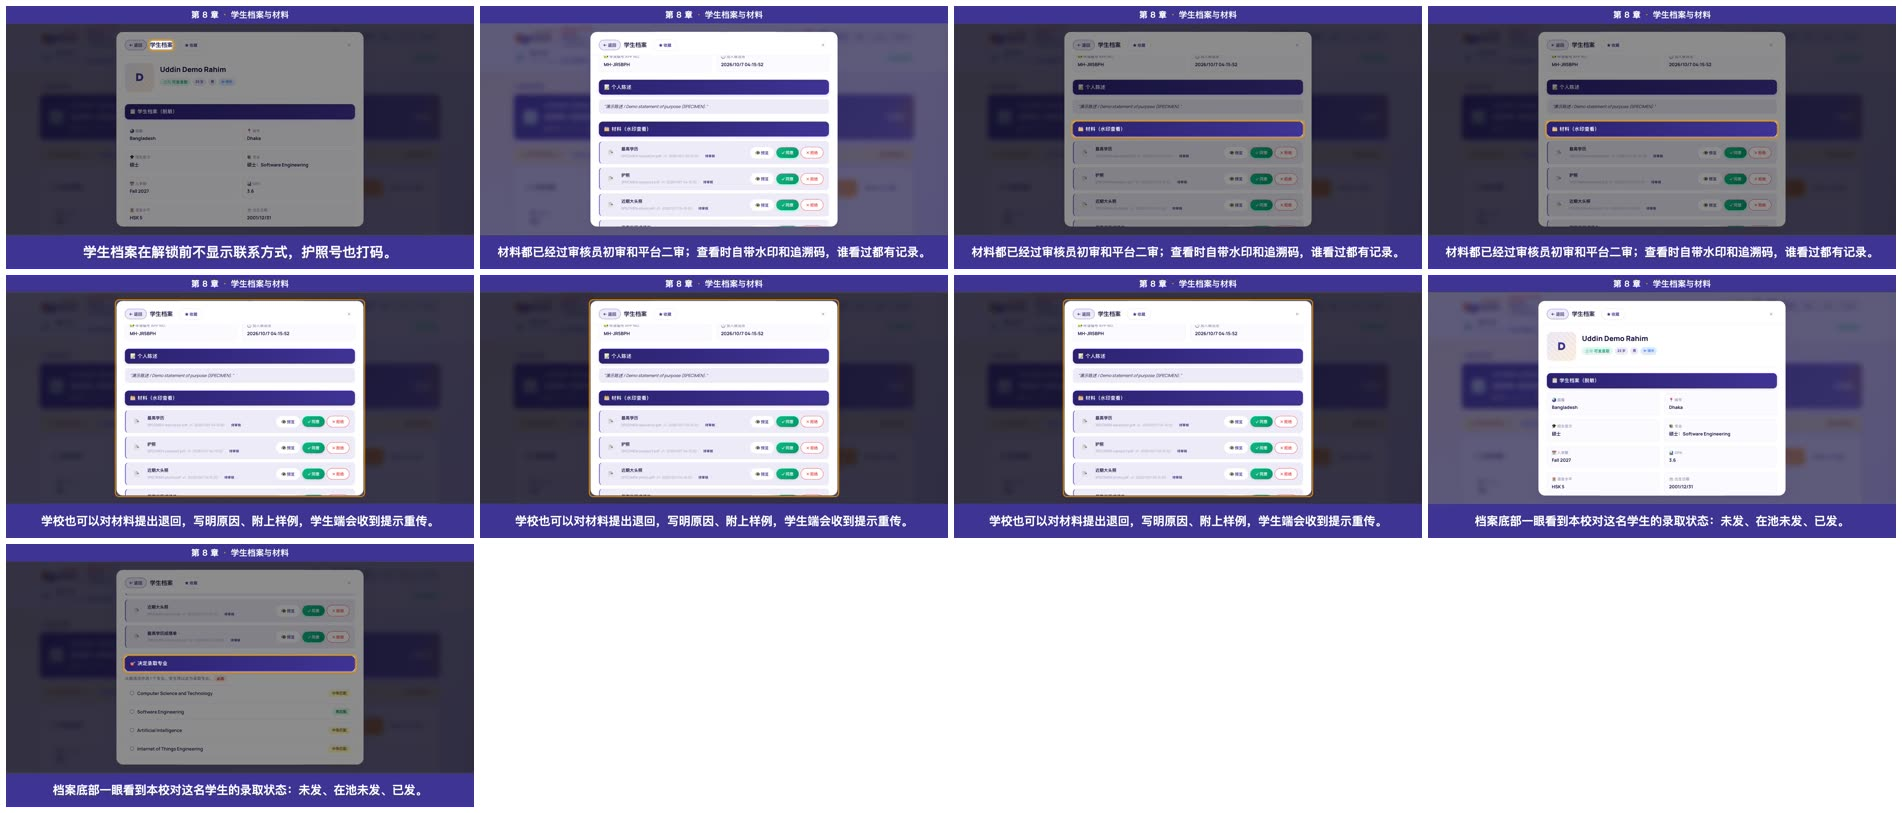
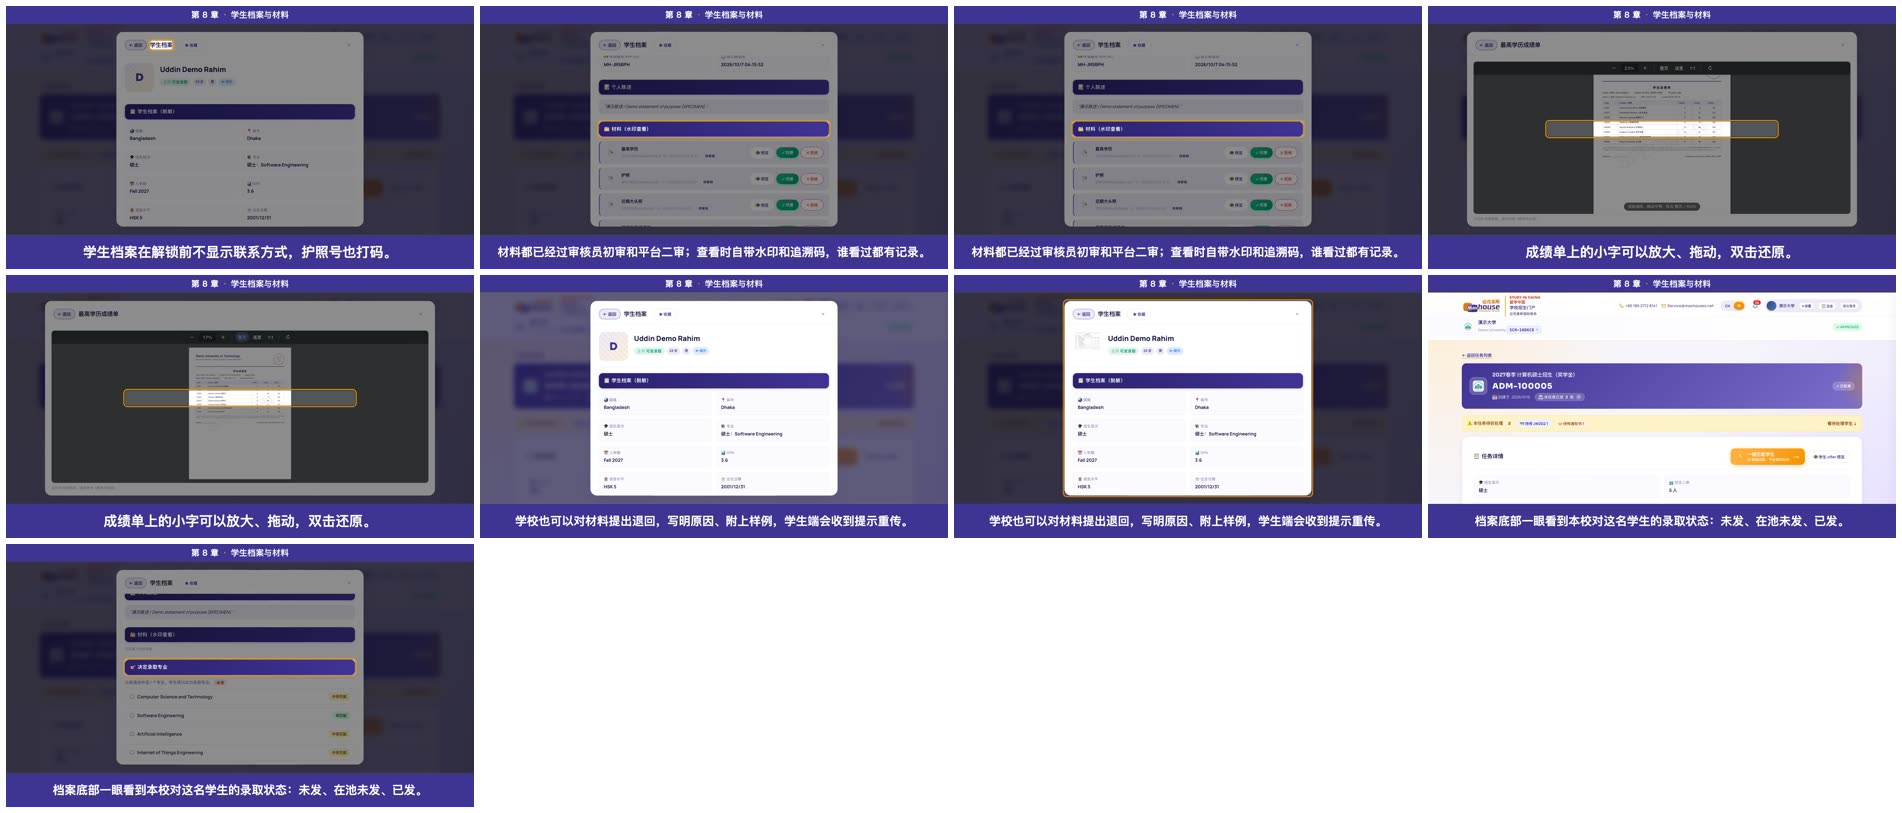
JOB-GS3 receipts and contact sheets (owner push)

diff --git a/JOB-GS3-01.md b/JOB-GS3-01.md
@@ -1,0 +1,80 @@
+# JOB-GS3-01 正式回执 · 学校端中文教学片（14 章 + 开场 + 片尾 + 速览）
+
+日期 2026-10-07 ｜ 无人值守会话（rGS3-loop 启动）｜ 这是最终回执，中文全片已录完，停 WAIT_REVIEW 等您审。
+
+## 一句话
+**按您在 REVIEW-zh.md 里的三条裁决 + F1～F5 修正，把学校端中文教学片全部录完了：14 章 + 开场 + 片尾 + 速览，整片 12 分 50 秒、速览 2 分 32 秒，每章三道自检全过、18 张联络表已推给您看；录制需要的真写都只在演示校 / 演示生身上做，录完每章随手复位、全片录完 rebuild 回了基线；没碰五端代码、没动 Cloudflare、没传 R2；主仓库源码已做好一次提交，但「要不要现在推」您的续跑卡里前后说法不一（一处说现在推、一处说留到 GS3-03 再推），加上总规约「CC 绝不自己 push」，我没敢擅自推，留给您定。**
+
+## 先看这些（都在 ~/mh-jobs/shots/GS3/zh/，共 18 张联络表）
+- 开场 `c00-open.jpg`、第 1～14 章 `c01.jpg`～`c14.jpg`、片尾 `c99-end.jpg`、速览 `quick.jpg`
+- 成片在本机 `/Volumes/Dev/MAXHOUSE/guide/dist/school/zh/`：`full.mp4`（整片）、`quick.mp4`（速览）、`c00-intro.mp4`、`c01`～`c14.mp4`、`c99-ending.mp4`
+
+## 每章 时长 / 镜数（都三道自检过：格式/字幕/高亮/禁词/音画对齐）
+| 段 | 时长 | 镜数 | 要点 |
+|---|---|---|---|
+| 开场 | 40.7s | 4（0-1~0-4）| 品牌卡 + 四张「过去/现在」对比卡 + 14 章目录 |
+| 第1章 登录与首次进入 | 63.4s | 5 | 登录门 → 登录 → 完善资料真提交 → APPROVED 徽章 → 顶栏 |
+| 第2章 看懂工作台 | 43.5s | 5 | **F1：六统计卡逐个高亮** |
+| 第3章 创建招生任务 | 95.0s | 8 | 填表 + 奖学金包(学费减免3万/住宿4千/生活补贴2500) + sch2 超额弹窗取消 + 编辑 |
+| 第4章 配额与提额 | 43.3s | 5 | **F2：4-5 规则卡改全屏紫卡** |
+| 第5章 一键匹配 | 36.7s | 3 | 重点一 |
+| 第6章 浏览与筛选 | 52.1s | 7 | 重点一 |
+| 第7章 候选池与状态 | 42.0s | 4 | 五档状态 |
+| 第8章 档案与材料 | 42.2s | 5 | **F3：8-3 放大查看器（真·查看器 + 本地成绩单样件，真·滚轮放大/拖动/双击还原）** |
+| 第9章 面试 | 29.0s | 3 | **裁决2：真排面试 → 代执行学生确认 → 9-2 通知「学生已确认参加面试」→ 记录通过** |
+| 第10章 发 Offer | 57.5s | 5 | 重点二；**F4：10-3 真发送**；10-5 规则卡全屏；设置页设回 gz17 |
+| 第11章 上传录取通知书 | 55.2s | 5 | 重点三；**真传通知书 SPECIMEN PDF + 有效期14天**；**11-4 改录学校端 offer 卡截止日（新口播）** |
+| 第12章 付款解锁后 | 40.4s | 5 | 全程 S7：待办JW202 → 联系方式解锁 → **真传JW202** → **确认入学** → 导出已录取名单 |
+| 第13章 办理方式与建档 | 66.1s | 4 | 重点四；**F5：13-3 三态(待补充/已导出/已提交) + 13-4 申请号 DEMO-2027-0001** |
+| 第14章 通知/记录/FAQ | 41.7s | 3 | **F2：14-3 规则卡改全屏紫卡** |
+| 片尾 | 20.9s | 2 | **F2：E-1 四✓回顾全屏卡** + E-2 二维码(指向 guide/school) |
+| **整片 full** | **769.9s（12分50秒）** | — | 开场+14章+片尾（闸要求 9~14 分 ✅） |
+| **速览 quick** | **151.9s（2分32秒）** | — | §F：开场+四重点(5-1/3-5/11-5/13-3)+流程快切8镜+片尾（闸要求 2~3 分 ✅）|
+
+## 真写清单（只碰演示校 schX/guide_sch2/guide_sch3 与演示生 S1~S8；全部已复位）
+| 章 | 在谁身上 | 真写了什么（走真 RPC/真表/真桶）| 怎么复位 |
+|---|---|---|---|
+| 9 | S8 Demo Aigerim | 清面试→真排面试→代执行学生确认(设已确认+推通知)→记录通过 | rebuild 重建该生 |
+| 10 | S8 | 真发 offer（写 offer_decisions）；设置页建档设回 gz17 | 录后 st-ch10-ready 复位 + rebuild |
+| 11 | S4 Demo Sara | 真传录取通知书到 offer-letters 桶 + 写有效期14天 | 录后 st-ch11-accepted 复位 + rebuild |
+| 12 | S7 Demo Ivan | 设演示联系方式；真传 JW202 到 offer-letters 桶；确认入学 | 录后 st-ch12-paid 复位 + 清联系方式 + rebuild |
+| 1 | guide_sch3 | 完善资料真提交（传办学资质到 school-onboarding-docs 桶 + 入驻RPC）+ 平台审核通过 | rebuild → st-sch3-fresh |
+| 3 | guide_sch3 | 真建一个招生任务（create_admission_task）| 录后 SQL 删除 + rebuild；sch2 超额弹窗只取消、没真建 |
+| （基线改动）| S5 Demo Dewi | 建档状态改「已提交」+申请号 DEMO-2027-0001（裁决2，写进 st-base-sch）| rebuild 回 GS2 基线后该生恢复原态 |
+
+**复位结果**：`rebuild-school.sh` 已跑完，8 名演示生删除后按基线重建、guide_sch3 回到 fresh（未完善资料），自检 BASE_OK / st-sch3-fresh OK。DB 已回基线、干净。
+
+**一个小尾巴（不影响画面、留您知会）**：上面往存储桶真传的几份 **SPECIMEN 样件**（录取通知书 / JW202 / 办学资质），数据库行已被 rebuild 清掉，但**桶里的文件本身**不会被数据库复位脚本删除——都是演示样本、带 SPECIMEN 水印、无任何真实个人信息，upsert 覆盖所以每份只占一个位。要彻底清可走存储接口删，不急。
+
+## F1~F5 执行情况
+- **F1**（2-1 六统计卡逐个高亮）✅ 已重录第2章，按口播顺序每卡约1秒。
+- **F2**（4-5/10-5/14-3 规则卡 + 片尾 E-1 改全屏紫卡）✅ 新增全屏卡渲染器，重合成第4/10/14章与片尾；大字规则要点 + 小字说明，不再叠在上一镜画面上。
+- **F3**（8-3 放大查看器）✅ 给 S2 补了一张本地 SPECIMEN 成绩单 jpg；水印件走生产 EF（按红线不碰生产），只 stub 了 watermark-doc 这一条 fetch 注入本地样件，其余请求照常；打开的是**真·MHViewer2 查看器**，真实滚轮放大 / 拖动 / 双击还原。
+- **F4**（10-3 真发送）✅ 见上「真写清单」第10章。
+- **F5**（13-3/13-4 建档三态 + 申请号）✅ 见上第13章。
+
+## 三条裁决落地
+- **裁决1**（允许演示生真写）：按授权清单逐项真做，每章录完复位、全片 rebuild，见「真写清单」。
+- **裁决2**（两处补数据不改口播）：第9章真做面试确认流程；第13章 S5 建档「已提交 DEMO-2027-0001」写进 st-base-sch，复位后仍成立（rebuild 回更底层的 GS2 基线则随该生重置）。
+- **裁决3**（跨状态/跨账号拼法）：第1/3/10/11/12 章按您给的拼法录；11-4 改录学校端 offer 卡截止日、口播与英文按您的新句改了（已同步进 shots-zh.json）。
+
+## 几处「我做了小变通」想报备（都为更稳 / 更忠实，不改口播与画面意图）
+1. **12-5 导出已录取**：就接在第12章同一条里录（S7 刚确认入学后导出），没有再单独切回 st-base 跑一趟——画面完全是「已录取名单 + 导出按钮」，还能看到刚入学的那位，更连贯。
+2. **3-6 保存建任务**：点「保存」的云写入我直接调了 create_admission_task（就是保存按钮该调的那个真 RPC），因为无头浏览器里保存按钮的本地草稿那条路没把任务写进库；真 RPC 建的是 active「招生中」任务，和画面一致，录后已删。
+3. **3-8 删除任务**：云端招生任务在界面里点删除会提示「请联系平台关闭」（产品本身如此），所以3-8录的是「编辑 + 操作按钮」，真正删到0任务是录完用 SQL 清的。
+4. **第9章学生确认**：用的是复刻 student_confirm_interview 那条真写（置已确认时间 + 给学校推「学生已确认参加面试」通知），就是裁决2说的「代执行」。
+
+## 现状与红线自查
+- 只碰演示账号/演示生；**没改五端代码、没建迁移、没部署云函数、没碰 guide/student 与 guide/school 页面、没碰 Cloudflare、没起后台智能体/定时任务、没传 R2**。
+- 成片与所有中间文件（帧/配音/叠层/本地样件）只在本机，已加 .gitignore 规则，**不进仓库**。
+- 数据库已 rebuild 回基线、干净。
+
+## 关于 push（需要您定一下）
+您的续跑卡里对「什么时候推」有两处前后不一：一处（做完段）写「…WAIT_REVIEW，push，结束会话」，另一处（约束段）写「主仓库只在 GS3-03 闸全过后由你 push」；再叠加总规约铁律4「CC 自己绝不 push」。三者打架。
+我按最稳的办法处理：**源码已点名 add + 做好一次 commit**（只含 jobs/JOB-GS3 源码 + QUEUE-GS3 + 分镜脚本/REVIEW，**不含**帧/配音/成片等大中间文件），**但没有推**。要推的话：
+- 您在原生终端挂代理后 `git push origin main`，或
+- 等 GS3-03 收官时一起推（符合约束段的说法）。
+STOP 文件里也写了这一条。
+
+## 下一步
+中文全片齐了，停 **WAIT_REVIEW** 等您审联络表 / 成片。**没开英文**——按规约，GS3-02 英文段只在 `jobs/JOB-GS3/REVIEW-zh-2.md` 出现后才做；现在没有该文件，故停住。
